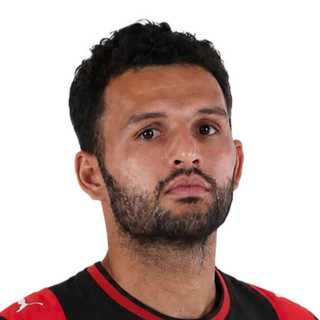
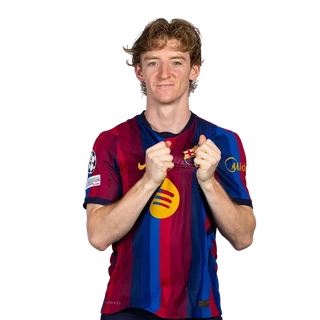
Correct transfer player photo assignments

diff --git a/app.js b/app.js
@@ -86,9 +86,9 @@ const JVAR={};
 })();
 const PLAYER_PHOTOS={
  "Jude Bellingham":"bellingham","Lamine Yamal":"yamal","Erling Haaland":"haaland","Kylian Mbappé":"mbappe","Michael Olise":"olise","Pedri":"pedri","Vinícius Júnior":"vinicius","Vitinha":"vitinha","Khvicha Kvaratskhelia":"kvaratskhelia","João Neves":"joao-neves",
- "Enzo Fernández":"enzo-fernandez","Morgan Rogers":"morgan-rogers","Elliot Anderson":"elliot-anderson","Yan Diomande":"yan-diomande","Bradley Barcola":"bradley-barcola","Sandro Tonali":"sandro-tonali","Mateus Fernandes":"mateus-fernandes","Ayyoub Bouaddi":"ayyoub-bouaddi","Bruno Guimarães":"bruno-guimaraes","Savinho":"savinho","Anthony Gordon":"anthony-gordon","Carlos Baleba":"carlos-baleba","Gabriel Martinelli":"gabriel-martinelli"
+ "Enzo Fernández":"enzo-fernandez","Morgan Rogers":"morgan-rogers","Elliot Anderson":"elliot-anderson","Yan Diomande":"yan-diomande","Bradley Barcola":"bradley-barcola","Sandro Tonali":"sandro-tonali","Mateus Fernandes":"mateus-fernandes","Ayyoub Bouaddi":"ayyoub-bouaddi","Bruno Guimarães":"bruno-guimaraes","Savinho":"savinho","Anthony Gordon":"anthony-gordon","Carlos Baleba":"carlos-baleba","Gonçalo Ramos":"goncalo-ramos","Iliman Ndiaye":"iliman-ndiaye","Gabriel Martinelli":"gabriel-martinelli"
 };
-function playerPortrait(name){const photo=PLAYER_PHOTOS[name];return photo?'<img class="avatar player-photo" src="assets/player-photos/'+photo+'.webp?v=player-portraits-20261104" alt="" aria-hidden="true" loading="lazy">':''}
+function playerPortrait(name){const photo=PLAYER_PHOTOS[name];return photo?'<img class="avatar player-photo" src="assets/player-photos/'+photo+'.webp?v=player-portraits-20261104b" alt="" aria-hidden="true" loading="lazy">':''}
 function avatar(name,col){
   const p=name.replace(/\(.*\)/,"").trim().split(/\s+/);const ini=(p[0][0]+(p.length>1?p[p.length-1][0]:"")).toUpperCase();
   return '<svg class="avatar" viewBox="0 0 140 140" aria-hidden="true"><defs><linearGradient id="av'+ini+'" x1="0" y1="0" x2="0" y2="1"><stop offset="0" stop-color="'+col+'"/><stop offset="1" stop-color="#0b2226"/></linearGradient></defs><circle cx="70" cy="70" r="66" fill="url(#av'+ini+')" stroke="'+col+'" stroke-width="4"/><circle cx="70" cy="52" r="20" fill="#0b2226" opacity=".55"/><path d="M28 120q4-36 42-38 38 2 42 38" fill="#0b2226" opacity=".55"/><text x="70" y="114" text-anchor="middle" font-family="Barlow Condensed,sans-serif" font-weight="700" font-size="26" fill="#fff">'+ini+'</text></svg>';
